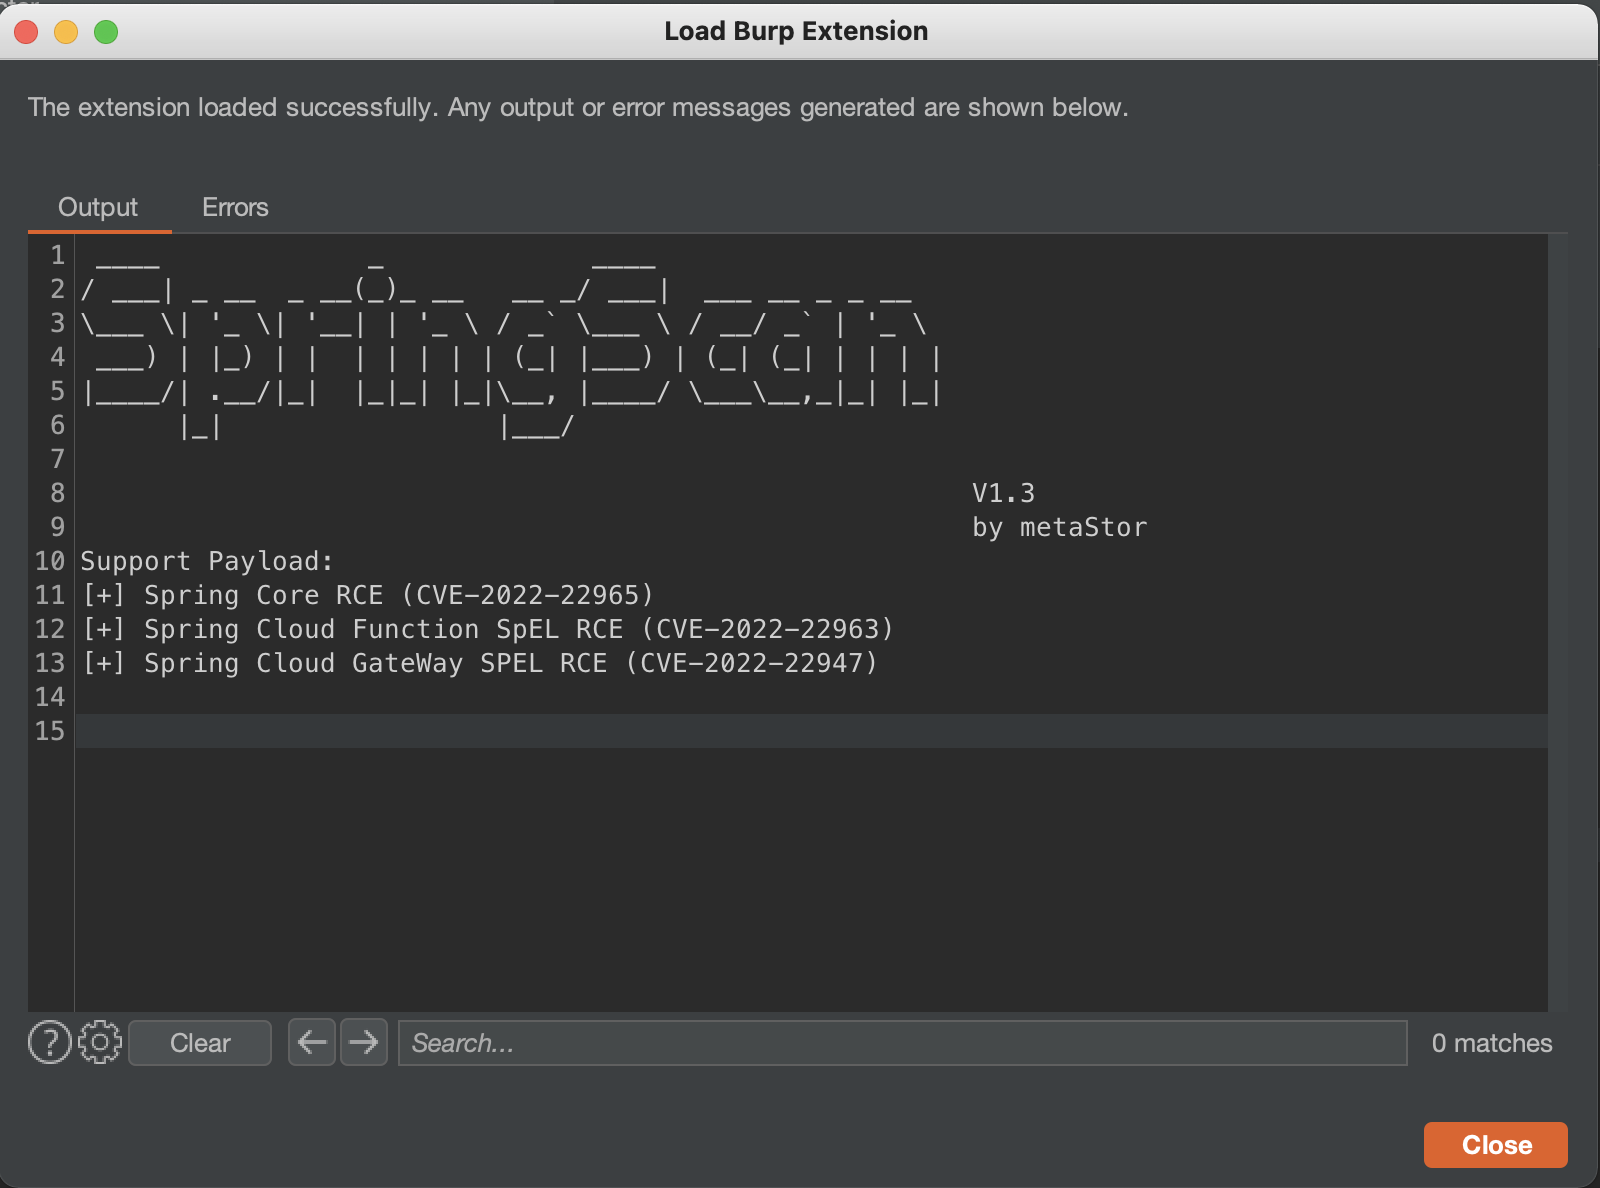
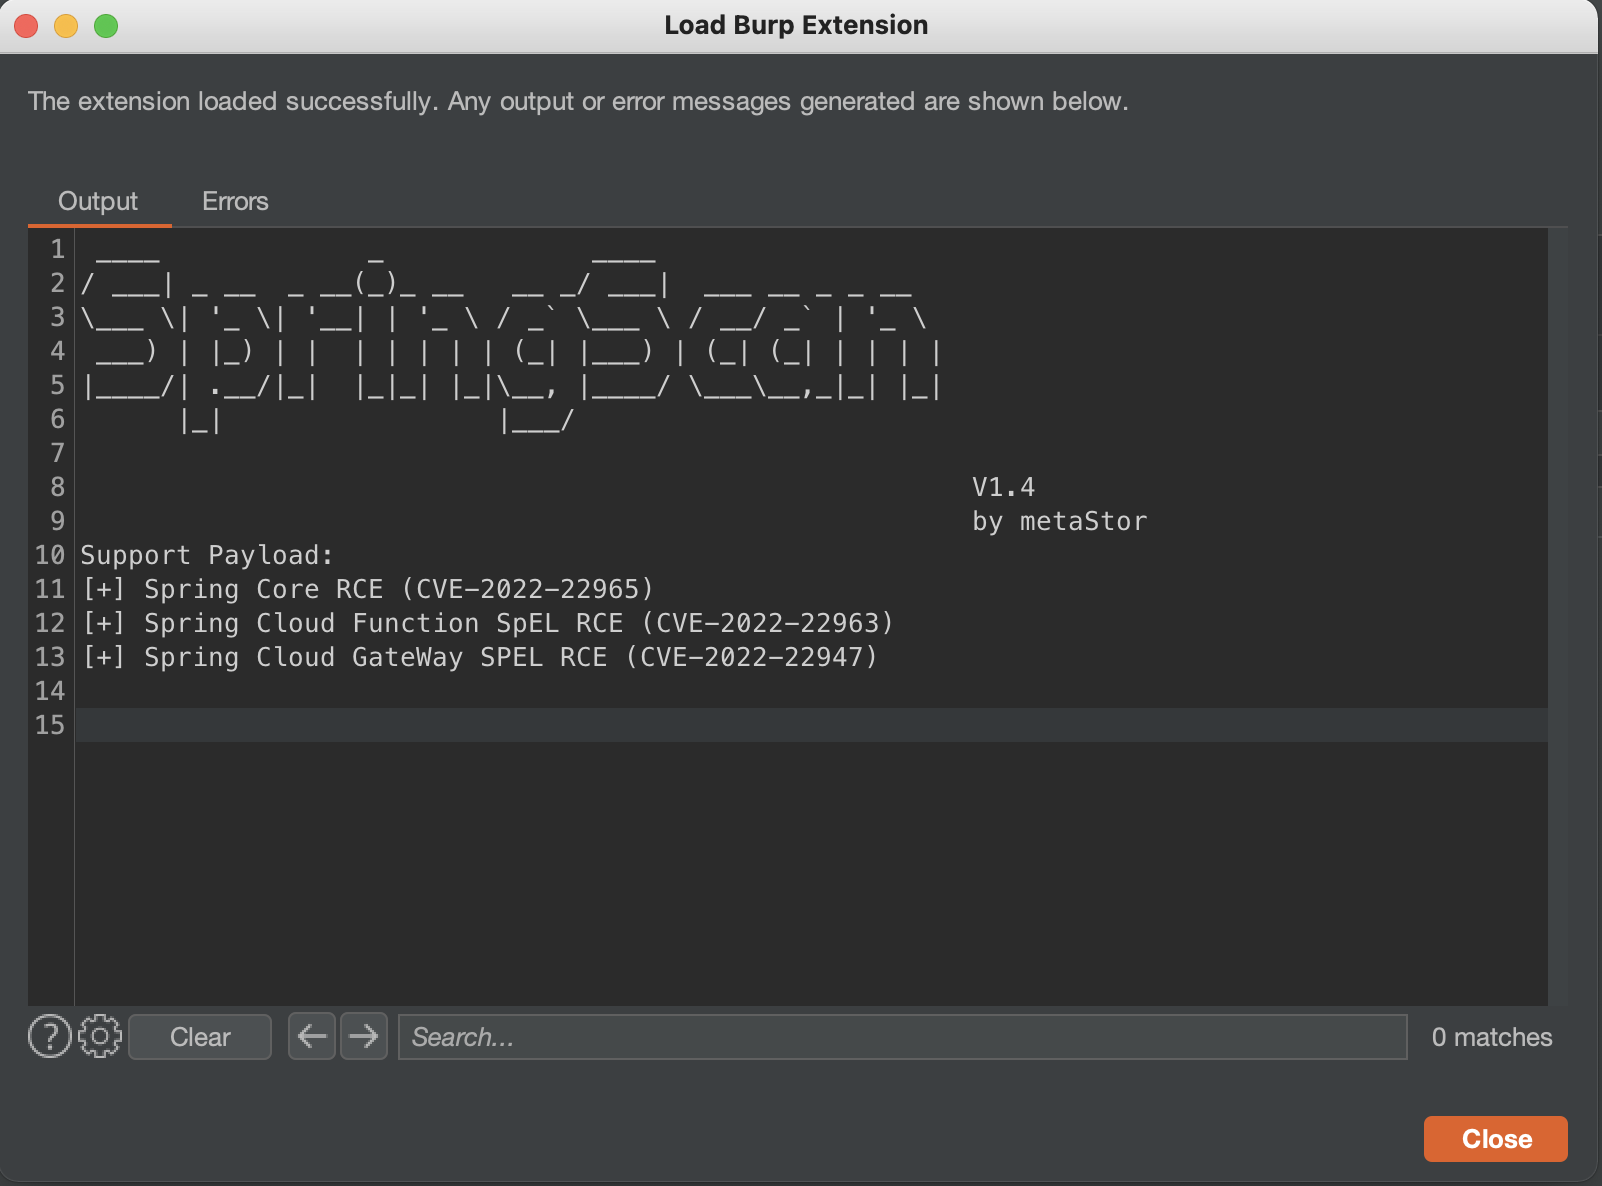
默认检测全开;加入URL编码纠正报错检测的误报问题;POC2更改为class.module.classLoader.URLs[0]=0

diff --git a/src/main/java/burp/scan/Scanner.java b/src/main/java/burp/scan/Scanner.java
@@ -53,8 +53,6 @@ public class Scanner implements IScannerCheck {
     public List<IScanIssue> doPassiveScan(IHttpRequestResponse iHttpRequestResponse) {
         // 插件是否开启
         if(!this.burpExtender.tags.getSettingUi().isEnable()) return null;
-        // 初始化回连平台
-        this.initBackend();
         // vul?
         boolean isVul = false;
 
@@ -63,7 +61,11 @@ public class Scanner implements IScannerCheck {
         IResponseInfo responseInfo = this.helpers.analyzeResponse(iHttpRequestResponse.getResponse());
         String url = String.valueOf(requestInfo.getUrl());
         String url_md5 = normalized(requestInfo);
-        if (!Utils.isStaticFile(url) && !this.isChecked(url_md5)) {  // 跳过静态文件和同类uri
+        // 获取插件功能状态
+        boolean isErrorCheck = this.burpExtender.tags.getSettingUi().isErrorCheck();
+        boolean isReverseCheck = this.burpExtender.tags.getSettingUi().isReverseCheck();
+        // 插件是否开启,跳过静态文件和同类uri
+        if ((isErrorCheck || isReverseCheck) && !Utils.isStaticFile(url) && !this.isChecked(url_md5)) {
             this.burpExtender.stdout.println(String.format("[*] Scanning %s", url));
             // 扫描任务状态添加到UI
             int id = this.burpExtender.tags.getScannerUi().add(
@@ -77,7 +79,7 @@ public class Scanner implements IScannerCheck {
             /**
              * 报错扫描
              */
-            if (this.burpExtender.tags.getSettingUi().isErrorCheck()) {
+            if (isErrorCheck) {
                 // Spring Core RCE (CVE-2022-22965)
                 if (responseInfo.getStatusCode() != 404) {  // 跳过404
                     IScanIssue errorIssue = this.errorScan(iHttpRequestResponse, false);
@@ -104,7 +106,9 @@ public class Scanner implements IScannerCheck {
             /**
              * 回连扫描
              */
-            if (this.burpExtender.tags.getSettingUi().isReverseCheck()) {
+            if (isReverseCheck) {
+                // 初始化回连平台
+                this.initBackend();
                 // Spring Core RCE (CVE-2022-22965)
                 if (responseInfo.getStatusCode() != 404) {  // 跳过404
                     IScanIssue reverseIssue = this.reverseScan(iHttpRequestResponse, false);
@@ -268,9 +272,9 @@ public class Scanner implements IScannerCheck {
         // 验证poc2
         IPoc poc2 = this.pocs[1];
         String[] poc22 = poc2.genPoc().split("=");
-        String ranStr = Utils.randomStr(3);
-        key = String.format(poc22[0], ranStr);
-        value = String.format(poc22[1], ranStr);
+        int ranNum = Utils.getRandom(0, 10);  // [0, 9]随机数字
+        key = Utils.urlEncode(String.format(poc22[0], ranNum));
+        value = String.format(poc22[1], ranNum);
 
         newHeaderRequest = this.randomHeader(httpRequestResponse);  // 随机header
         newParam = this.helpers.buildParameter(key, value, ("GET".equalsIgnoreCase(method)) ? IParameter.PARAM_URL : IParameter.PARAM_BODY);
@@ -313,9 +317,9 @@ public class Scanner implements IScannerCheck {
         // poc3
         IPoc poc3 = this.pocs[2];
         String[] poc33 = poc3.genPoc().split("&");
-        String key1 = poc33[0].split("=")[0];
-        String value1 = String.format(poc33[0].split("=")[1], payload, Utils.randomStr(4));
-        String key2 = String.format(poc33[1].split("=")[0], Utils.randomStr(2));
+        String key1 = Utils.urlEncode(poc33[0].split("=")[0]);
+        String value1 = Utils.urlEncode(String.format(poc33[0].split("=")[1], payload, Utils.randomStr(4)));
+        String key2 = Utils.urlEncode(String.format(poc33[1].split("=")[0], Utils.randomStr(2)));
         String value2 = String.format(poc33[1].split("=")[1], Utils.randomStr(2));
         // 构造参数
         IParameter param1 = this.helpers.buildParameter(key1, value1, ("GET".equalsIgnoreCase(method)) ? IParameter.PARAM_URL : IParameter.PARAM_BODY);

diff --git a/src/main/java/burp/util/Utils.java b/src/main/java/burp/util/Utils.java
@@ -3,6 +3,8 @@ package burp.util;
 import burp.payload.IPoc;
 
 import java.math.BigInteger;
+import java.net.URLEncoder;
+import java.nio.charset.StandardCharsets;
 import java.security.MessageDigest;
 import java.security.NoSuchAlgorithmException;
 import java.util.ArrayList;
@@ -193,4 +195,23 @@ public class Utils {
         }
         return stringBuilder.toString();
     }
+
+    /**
+     * URL编码
+     * @param src
+     * @return
+     */
+    public static String urlEncode(String src) {
+        return URLEncoder.encode(src, StandardCharsets.UTF_8);
+    }
+
+    /**
+     * URL解码
+     * @param src
+     * @return
+     */
+    public static String urlDecode(String src) {
+        return URLEncoder.encode(src, StandardCharsets.UTF_8);
+    }
+
 }

diff --git a/src/main/java/burp/payload/pocs/POC2.java b/src/main/java/burp/payload/pocs/POC2.java
@@ -7,7 +7,7 @@ import burp.payload.IPoc;
  * @date : Created 2022/4/7
  * @description: 报错检测
  * POC:
- * class.module.classLoader[xxx]=xxx => status_code: 400
+ * class.module.classLoader.URLs%5bx%5d=x (x为随机数字) => status_code: 400
  * url（正常请求） => 页面正常
  * */
 public class POC2 implements IPoc {
@@ -16,6 +16,6 @@ public class POC2 implements IPoc {
 
     @Override
     public String genPoc() {
-        return "class.module.classLoader[%s]=%s";
+        return "class.module.classLoader.URLs[%d]=%d";
     }
 }

diff --git a/src/main/java/burp/ui/tabs/SettingUi.java b/src/main/java/burp/ui/tabs/SettingUi.java
@@ -56,7 +56,7 @@ public class SettingUi {
         this.checkLabel = new JLabel("检测方法:     ");
         this.reverseLabel = new JLabel("回连方法:     ");
         this.enableCheckBox = new JCheckBox("启动", true);
-        this.errorCheckBox = new JCheckBox("报错检测   ", false);
+        this.errorCheckBox = new JCheckBox("报错检测   ", true);
         this.reverseCheckBox = new JCheckBox("回连检测", true);
 
         this.enableLabel.setForeground(new Color(255, 89, 18));

diff --git a/src/main/java/burp/BurpExtender.java b/src/main/java/burp/BurpExtender.java
@@ -13,7 +13,7 @@ import java.io.PrintWriter;
 public class BurpExtender implements IBurpExtender, IExtensionStateListener
 {
     private final String NAME = "SpringScan";
-    private final String VERSION = "1.3";
+    private final String VERSION = "1.4";
 
     public IBurpExtenderCallbacks callbacks;
     public IExtensionHelpers helpers;

diff --git a/README.md b/README.md
@@ -36,6 +36,7 @@
 > 回连检测 > 报错检测
 
 报错检测误报率较大(默认关闭)，可能存在漏洞但不能保证JDK版本大于等于**9**，可以及时捕捉到不出网的漏洞；回连检测准确率高，不适用于不出网环境。
+推荐在内网的环境只开启报错检测，在公网环境开报错检测和回连检测。
 
 ### CVE-2022-22963 检测方法 
 
@@ -92,7 +93,11 @@
 
 ![image-20220411234948718](imgs/image-20220411234948718.png)
 
-插件设置，报错检测方法默认关闭，回连平台默认`Dig.pm`(推荐)
+报错检测情况
+
+![image-20220425233957353](imgs/image-20220425233957353.png)
+
+插件设置，检测方法默认全开启，回连平台默认`Dig.pm`(推荐)
 
 ![image-20220409120720309](imgs/image-20220409120720309.png)
 
